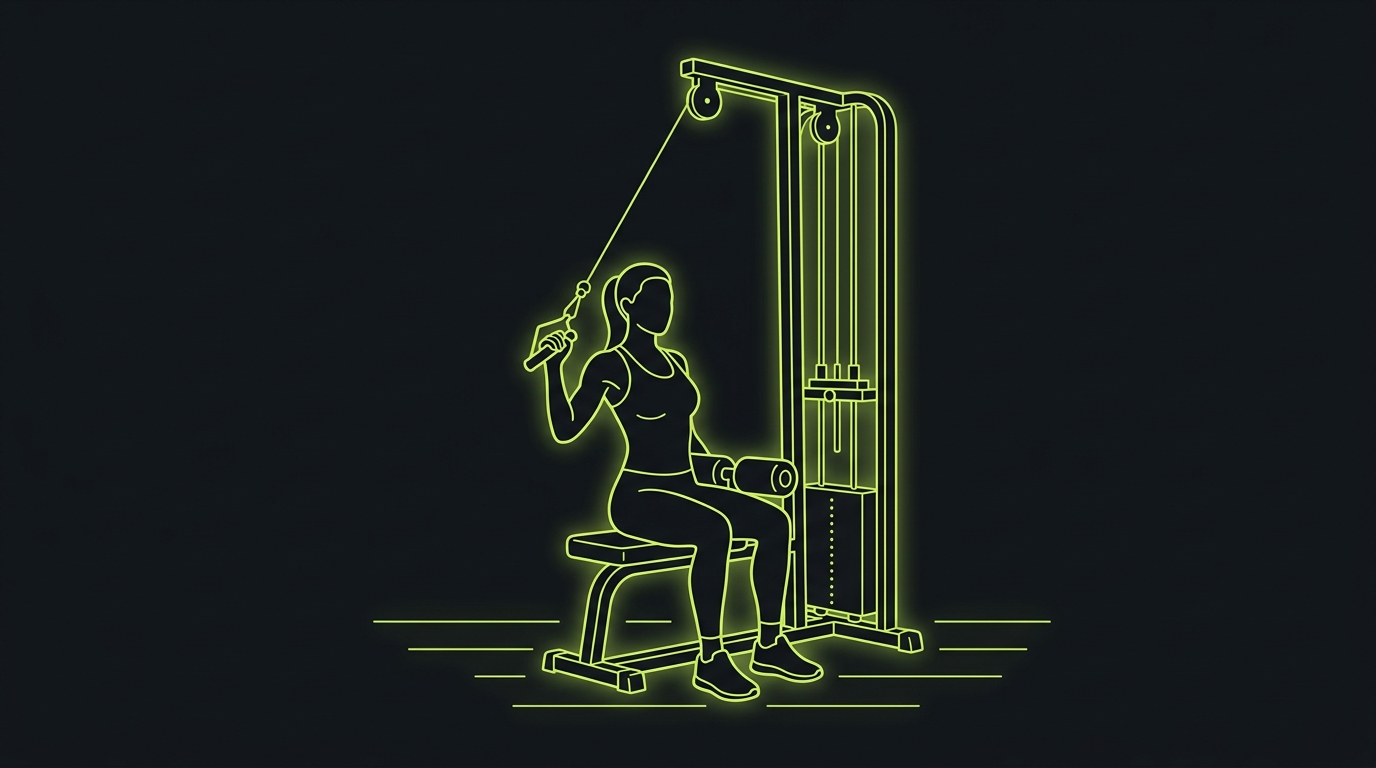
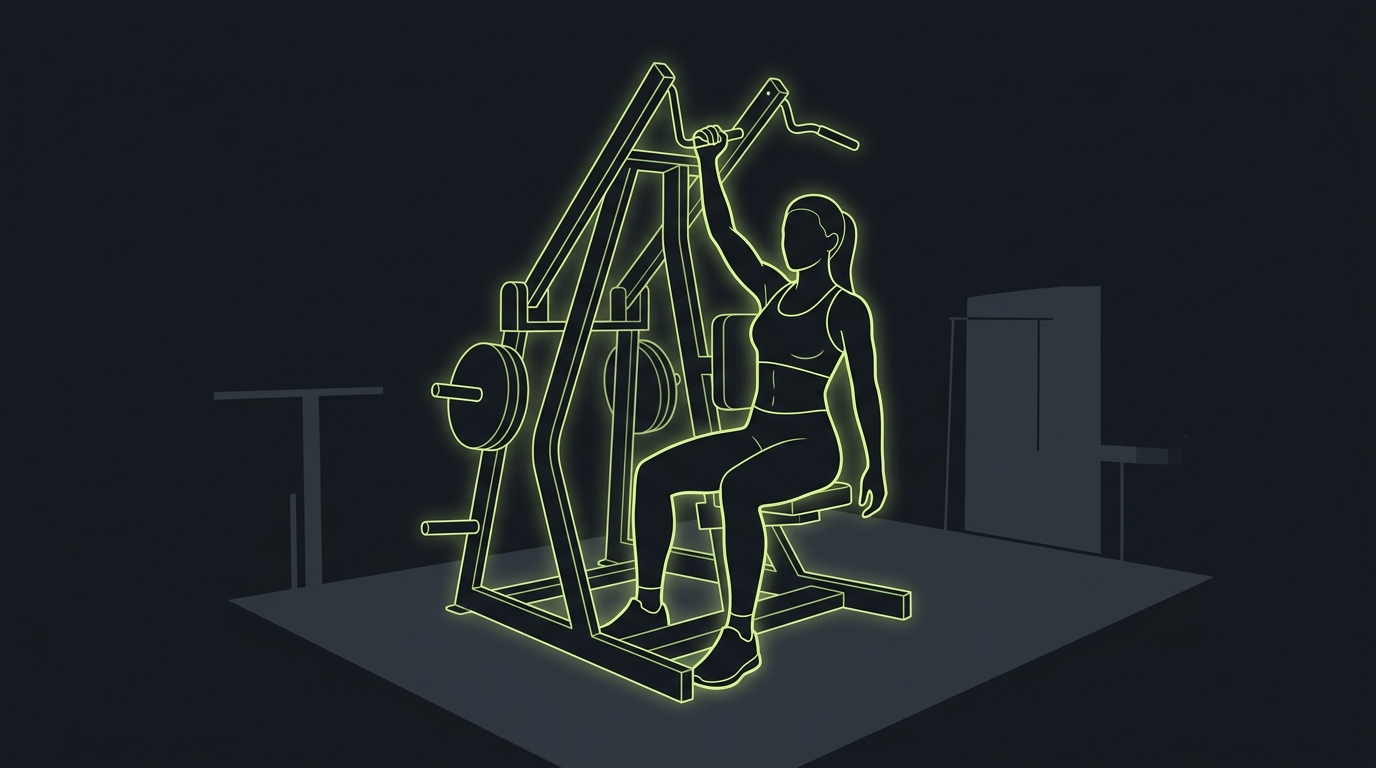
fix(ejercicios): regenerate jalón unilateral images with correct machine
Update prompt to describe plate-loaded converging lever arm machine
instead of cable pulldown with bar.

Changed region(s): [[0.1562, 0.0625, 0.875, 1.0]]

diff --git a/ejercicios/generate_images.py b/ejercicios/generate_images.py
@@ -46,7 +46,7 @@ EXERCISE_PROMPTS = {
     "aperturas-inclinadas-mancuernas": ("incline dumbbell chest flyes lying on an incline bench at 30-45 degrees, arms open wide with slight elbow bend", "3/4 diagonal view"),
     "press-unilateral-maquina": ("a seated single-arm chest press on a machine, pushing forward with one arm", "3/4 diagonal view"),
     "extensiones-triceps-cuerda": ("a standing tricep rope pushdown on a cable machine, arms pushing down", "3/4 diagonal view"),
-    "jalon-unilateral-maquina": ("a seated single-arm lat pulldown on a machine, pulling down with one arm bringing the elbow toward the hip", "3/4 diagonal view"),
+    "jalon-unilateral-maquina": ("a seated single-arm plate-loaded lat pulldown machine with converging lever arms, pulling one handle down with one arm, no cables no bar", "3/4 diagonal view"),
     "press-inclinado-unilateral-maquina": ("a seated single-arm incline chest press on a machine, pushing upward and forward with one arm on an inclined trajectory", "3/4 diagonal view"),
     "extensiones-triceps-barra": ("a standing tricep straight bar pushdown on a cable machine, gripping a straight bar pushing down", "3/4 diagonal view"),
 }
